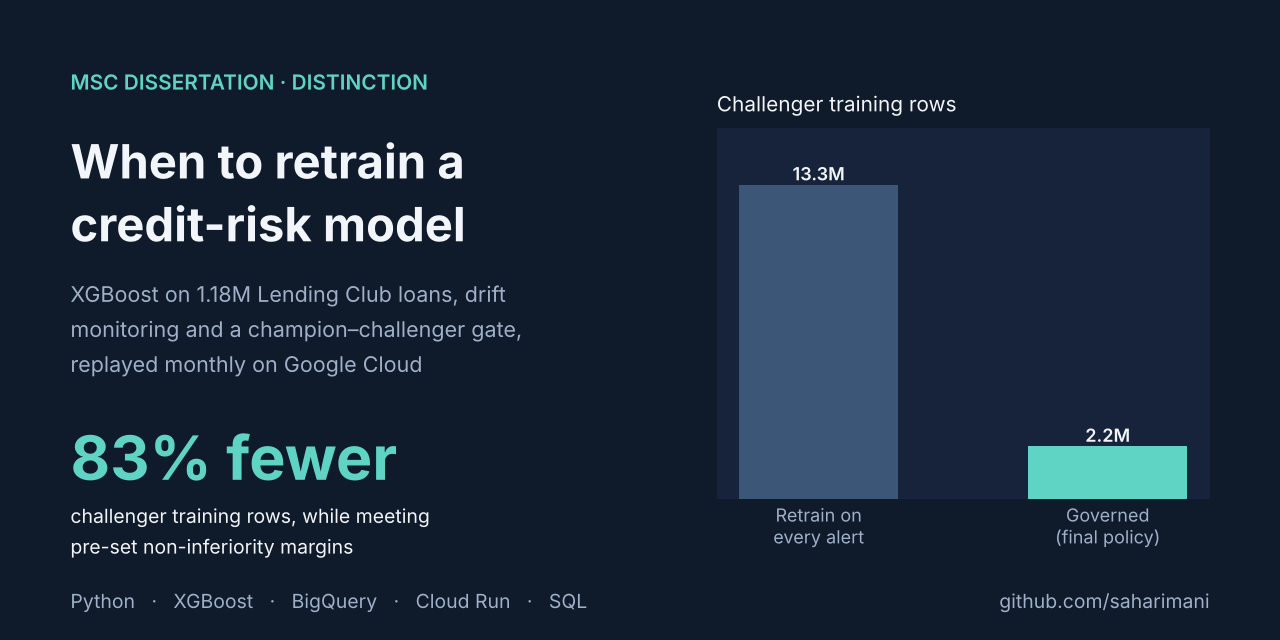
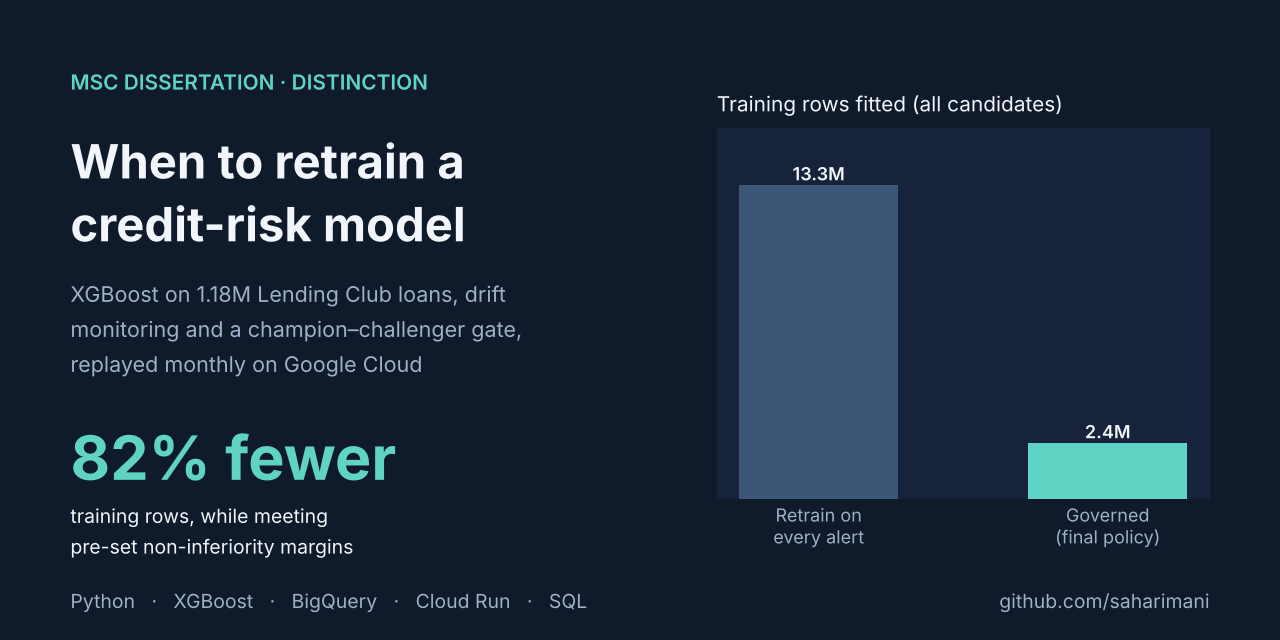
Report training-row saving across all fitted actions

diff --git a/README.md b/README.md
@@ -73,7 +73,7 @@ In November 2014, Policy C fitted a challenger and the gate **rejected** it. The
 
 ### Compute
 
-Retraining on every feature-drift alert (counterfactual A\*) would have fitted 27 challengers on 13.3M cumulative training rows. Policy C fitted four challengers on 2.25M rows, **83% less**. Policy B's figure is 82%.
+Retraining on every feature-drift alert (counterfactual A\*) would have fitted 27 challengers on 13.3M cumulative training rows. Policy C fitted four challengers and one recalibration on 2.40M rows in total, **82% less** (83% counting challenger fits only). Policy B's figure is also 82%.
 
 ![Candidate training row exposure](docs/figures/candidate_row_exposure.png)
 
